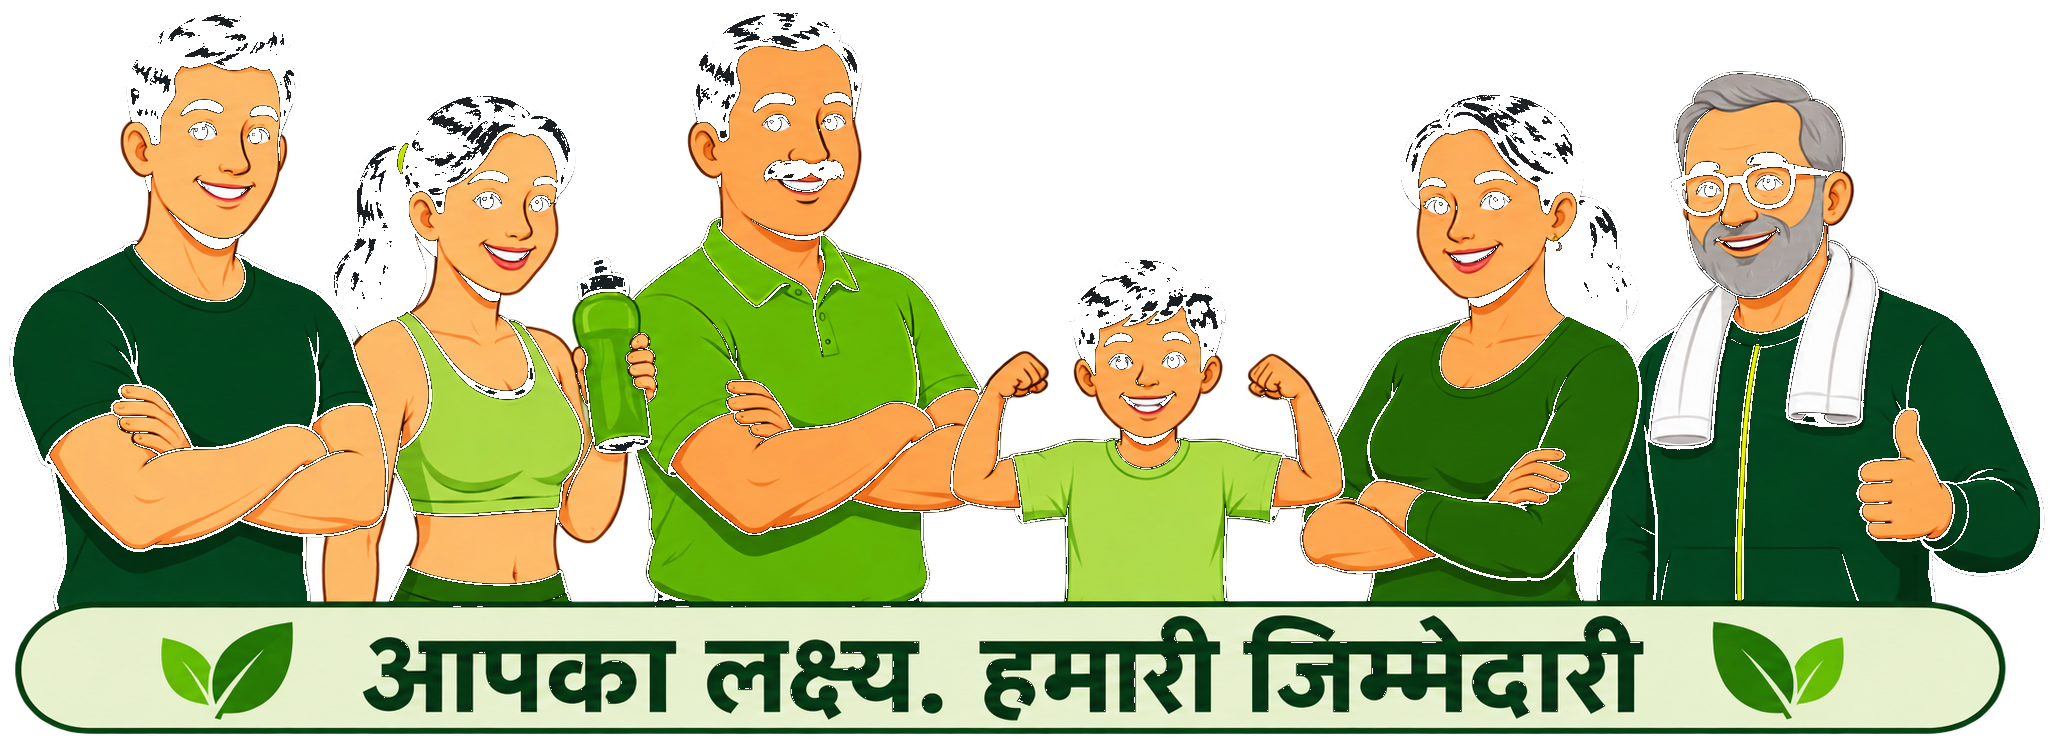
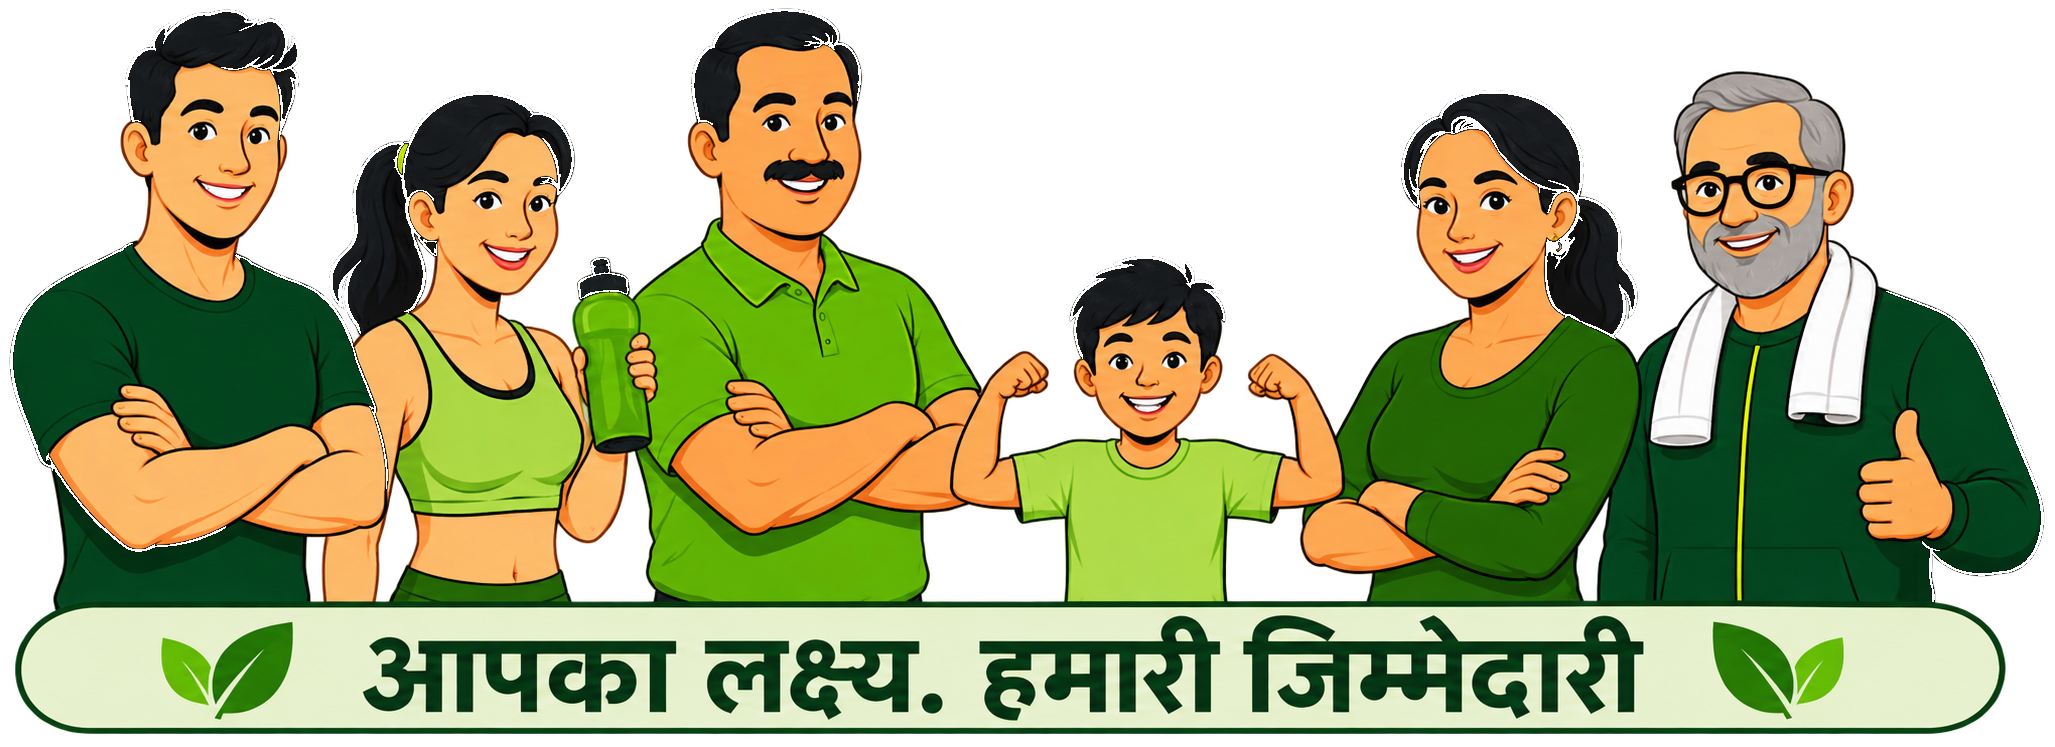
fix(report): keep footer faces intact and harden print/share
Flood-fill the logo/footer knockout so hair and linework are not
punched out on a white A4 sheet. Render the PDF off the main thread,
recycle bitmaps, grant share-sheet URI permission on the chooser, and
ignore a second Print tap while a share is already in flight.

diff --git a/android_app/app/src/main/java/com/health/openscale/ui/screen/home/HomeScreen.kt b/android_app/app/src/main/java/com/health/openscale/ui/screen/home/HomeScreen.kt
@@ -106,6 +106,7 @@ fun HomeScreen(
 
     val context = LocalContext.current
     val coroutineScope = rememberCoroutineScope()
+    var sharing by remember { mutableStateOf(false) }
 
     LaunchedEffect(Unit) {
         sharedViewModel.setTopBarTitle(R.string.route_title_home)
@@ -124,24 +125,29 @@ fun HomeScreen(
         onPrint = {
             val uid = selectedUserId
             val mid = latest?.measurementId
-            if (uid != null && mid != null) {
+            if (uid != null && mid != null && !sharing) {
+                sharing = true
                 coroutineScope.launch {
-                    val artwork = ReportArtwork.load(context.assets)
-                    reportViewModel.renderPdf(uid, mid, artwork)
-                        .onSuccess { (bytes, fileName) ->
-                            val uri = ReportShare.writeBytes(context, fileName, bytes)
-                            ReportShare.share(context, uri, "application/pdf")
-                        }
-                        .onFailure { e ->
-                            sharedViewModel.showSnackbar(
-                                messageResId = R.string.export_error_generic,
-                                formatArgs = listOf(e.localizedMessage ?: "Unknown error"),
-                            )
-                        }
+                    try {
+                        val artwork = ReportArtwork.load(context.assets)
+                        reportViewModel.renderPdf(uid, mid, artwork)
+                            .onSuccess { (bytes, fileName) ->
+                                val uri = ReportShare.writeBytes(context, fileName, bytes)
+                                ReportShare.share(context, uri, "application/pdf")
+                            }
+                            .onFailure { e ->
+                                sharedViewModel.showSnackbar(
+                                    messageResId = R.string.export_error_generic,
+                                    formatArgs = listOf(e.localizedMessage ?: "Unknown error"),
+                                )
+                            }
+                    } finally {
+                        sharing = false
+                    }
                 }
             }
         },
-        printEnabled = latest != null,
+        printEnabled = latest != null && !sharing,
     )
 
     editing?.let { state ->

diff --git a/android_app/app/src/test/java/com/health/openscale/core/report/PdfReportRendererTest.kt b/android_app/app/src/test/java/com/health/openscale/core/report/PdfReportRendererTest.kt
@@ -119,6 +119,26 @@ class PdfReportRendererTest {
     }
 
     @Test
+    fun `a blank club name still draws the logo and does not promote the coach name to the header`() {
+        val canvas = recordDraw(model().copy(coach = model().coach.copy(club = "")))
+        assertThat(canvas.images.any { it.key == ReportArtwork.LOGO }).isTrue()
+        assertThat(canvas.texts.none { it.text.isNotBlank() && it.style.size == PdfReportRenderer.CLUB_SIZE }).isTrue()
+        val coach = canvas.texts.single { it.text == "Reena Chandra" }
+        assertThat(coach.style.size).isEqualTo(PdfReportRenderer.COACH_NAME_SIZE)
+        assertThat(coach.style.bold).isFalse()
+    }
+
+    @Test
+    fun `measurement table and remarks stay above the footer`() {
+        val canvas = recordDraw()
+        val footer = canvas.images.single { it.key == ReportArtwork.FOOTER }
+        val remarks = canvas.texts.single { it.text == "Remarks" }
+        val lastRule = canvas.calls.filterIsInstance<DrawCall.Line>().maxBy { it.startY }
+        assertThat(remarks.y).isLessThan(footer.top)
+        assertThat(lastRule.startY).isLessThan(footer.top)
+    }
+
+    @Test
     fun `club name is the masthead, coach name is not`() {
         val canvas = recordDraw()
         val club = canvas.texts.single { it.text == "Fit Studio" }

diff --git a/android_app/app/src/main/java/com/health/openscale/core/report/PdfReportRenderer.kt b/android_app/app/src/main/java/com/health/openscale/core/report/PdfReportRenderer.kt
@@ -257,15 +257,19 @@ object PdfReportRenderer {
         artwork.forEach { (key, bytes) ->
             BitmapFactory.decodeByteArray(bytes, 0, bytes.size)?.let { bitmaps[key] = it }
         }
-        val doc = PdfDocument()
-        val page = doc.startPage(PdfDocument.PageInfo.Builder(PAGE_W, PAGE_H, 1).create())
-        draw(model, AndroidReportCanvas(page.canvas, bitmaps))
-        doc.finishPage(page)
+        try {
+            val doc = PdfDocument()
+            val page = doc.startPage(PdfDocument.PageInfo.Builder(PAGE_W, PAGE_H, 1).create())
+            draw(model, AndroidReportCanvas(page.canvas, bitmaps))
+            doc.finishPage(page)
 
-        val out = ByteArrayOutputStream()
-        doc.writeTo(out)
-        doc.close()
-        return out.toByteArray()
+            val out = ByteArrayOutputStream()
+            doc.writeTo(out)
+            doc.close()
+            return out.toByteArray()
+        } finally {
+            bitmaps.values.forEach { it.recycle() }
+        }
     }
 
     /** Maps [ReportCanvas] calls onto a real Android [Canvas]/[Paint]. See [render]. */

diff --git a/android_app/app/src/main/java/com/health/openscale/ui/screen/report/ReportShare.kt b/android_app/app/src/main/java/com/health/openscale/ui/screen/report/ReportShare.kt
@@ -17,6 +17,7 @@
  */
 package com.health.openscale.ui.screen.report
 
+import android.content.ActivityNotFoundException
 import android.content.ClipData
 import android.content.Context
 import android.content.Intent
@@ -58,6 +59,13 @@ object ReportShare {
             clipData = ClipData.newRawUri("", uri)
             addFlags(Intent.FLAG_GRANT_READ_URI_PERMISSION)
         }
-        context.startActivity(Intent.createChooser(send, null))
+        val chooser = Intent.createChooser(send, null).apply {
+            addFlags(Intent.FLAG_GRANT_READ_URI_PERMISSION)
+        }
+        try {
+            context.startActivity(chooser)
+        } catch (e: ActivityNotFoundException) {
+            throw IllegalStateException("No app available to share this file", e)
+        }
     }
 }

diff --git a/android_app/app/src/main/java/com/health/openscale/core/report/ReportUseCases.kt b/android_app/app/src/main/java/com/health/openscale/core/report/ReportUseCases.kt
@@ -102,7 +102,9 @@ class ReportUseCases @Inject constructor(
         artwork: Map<String, ByteArray> = emptyMap(),
     ): Result<Pair<ByteArray, String>> = runCatching {
         val model = buildModel(userId, measurementId).getOrThrow()
-        PdfReportRenderer.render(model, artwork) to suggestedFileName(model)
+        withContext(Dispatchers.IO) {
+            PdfReportRenderer.render(model, artwork) to suggestedFileName(model)
+        }
     }
 
     /**
